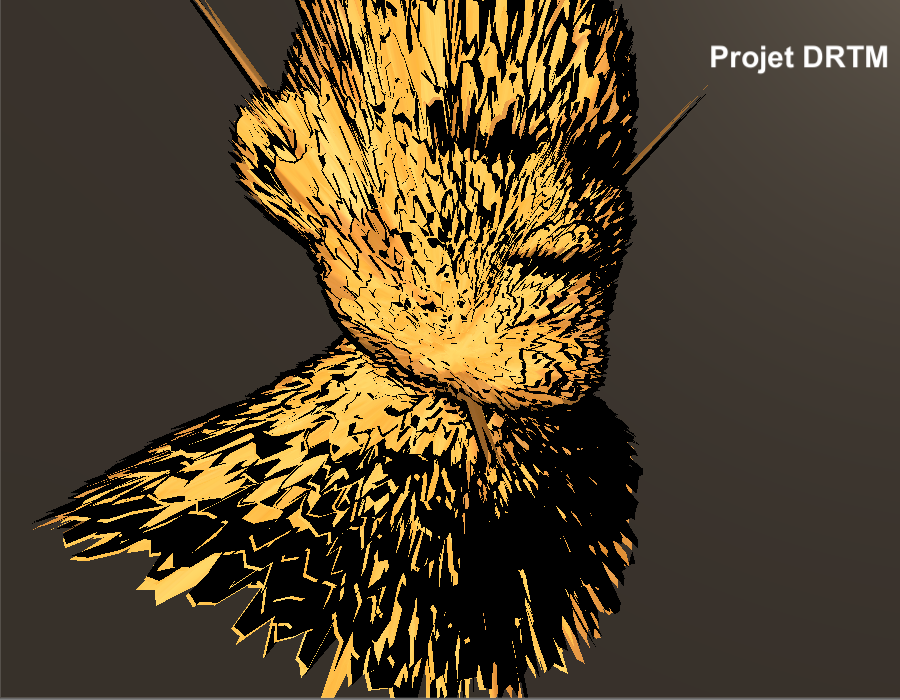
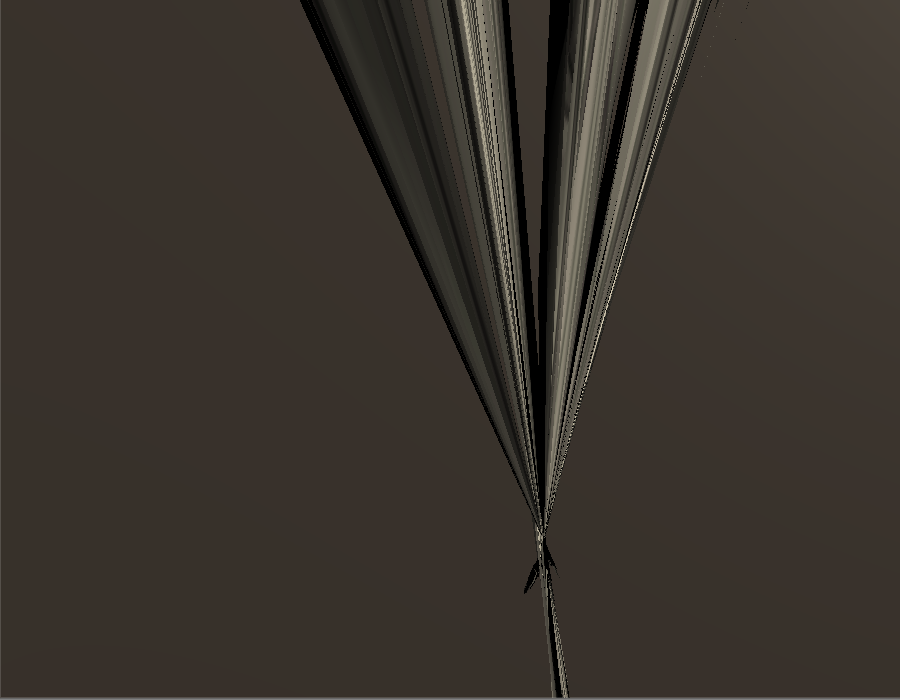
Update Deformation

diff --git a/DRTM project/Assets/src/Deformations/Deformation3D/AgrandissementLisse.cs b/DRTM project/Assets/src/Deformations/Deformation3D/AgrandissementLisse.cs
@@ -2,7 +2,9 @@
 using System.Collections.Generic;
 using UnityEngine;
 
-public class Eclats : DeformationAbstract{
+public class AgrandissementLisse : DeformationAbstract{
+	private static int i;
+
 	override public void deformer(){
 		GameObject go = GameObject.Find ("modele");
 		MeshFilter[] childs = go.GetComponentsInChildren<MeshFilter>(false);
@@ -14,28 +16,30 @@ public class Eclats : DeformationAbstract{
 			Mesh mesh = mf.mesh;
 			newVertices.AddRange( mesh.vertices );
 			for(int i = 0; i<newVertices.Count; i++){
-				float marge = 0.015f;
+				float marge = 0.055f;
 				if(estAProximité(marge, vRef,newVertices[i])){
-					newVertices [i] = calculerVecteur(vRef,marge,2.2f,newVertices[i]);
+					newVertices [i] = calculerVecteur(vRef,marge,1.4f,newVertices[i]);
 				}
 			}
 			mesh.vertices = newVertices.ToArray();
 			newVertices = new List<Vector3>();
 		}
 	}
-
+	// 1.4*((0.055-0.044)/0.055)
 	static Vector3 calculerVecteur(Vector3 center, float rayon, float hauteurEnSonCentre, Vector3 vecteurCible){
 		float distanceDuCentre = Vector3.Distance (center, vecteurCible);
-		float hauteur = hauteurEnSonCentre*(distanceDuCentre/rayon); 
+		float hauteur = 1+hauteurEnSonCentre*((rayon-distanceDuCentre)/rayon); 
+
+		i++;
+		if (i%2000==0) {
+			Debug.Log (distanceDuCentre);
+			i = 0;
+		}
 		return vecteurCible * hauteur;
 	}
 	static bool estAProximité(float marge, Vector3 v1, Vector3 v2){
-		if(v1.x - v2.x < marge && v1.x - v2.x > -marge){
-			if(v1.y - v2.y < marge && v1.y - v2.y > -marge){
-				if(v1.z - v2.z < marge && v1.z - v2.z > -marge){
-					return true;
-				}
-			}
+		if(Vector3.Distance (v1, v2) < marge){
+			return true;
 		}
 		return false;
 	}

diff --git a/DRTM project/Assets/src/Deformations/Deformation3D/Lames.cs b/DRTM project/Assets/src/Deformations/Deformation3D/Lames.cs
@@ -6,8 +6,8 @@ public class Lames : DeformationAbstract{
 	override public void deformer(){
 		GameObject go = GameObject.Find ("modele");
 		MeshFilter[] childs = go.GetComponentsInChildren<MeshFilter>(false);
-		MeshFilter child = childs[Mathf.RoundToInt (Random.value * childs.Length)];
-		Vector3 vRef = child.mesh.vertices[Mathf.RoundToInt(Random.value*child.mesh.vertices.Length)];
+		MeshFilter child = childs[Mathf.RoundToInt (Random.value * (childs.Length-1))];
+		Vector3 vRef = child.mesh.vertices[Mathf.RoundToInt(Random.value*child.mesh.vertices.Length-1)];
 		foreach (MeshFilter mf in childs) {
 			Mesh mesh = mf.mesh;
 			newVertices.AddRange( mesh.vertices );

diff --git a/DRTM project/Assets/src/Deformations/Deformation3D/AgrandissementMorceau.cs b/DRTM project/Assets/src/Deformations/Deformation3D/AgrandissementMorceau.cs
@@ -6,8 +6,8 @@ public class AgrandissementMorceau : DeformationAbstract{
 	override public void deformer(){
 		GameObject go = GameObject.Find ("modele");
 		MeshFilter[] childs = go.GetComponentsInChildren<MeshFilter>(false);
-		MeshFilter child = childs[Mathf.RoundToInt (Random.value * childs.Length)];
-		Vector3 vRef = child.mesh.vertices[Mathf.RoundToInt(Random.value*child.mesh.vertices.Length)];
+		MeshFilter child = childs[Mathf.RoundToInt (Random.value * (childs.Length-1))];
+		Vector3 vRef = child.mesh.vertices[Mathf.RoundToInt(Random.value*child.mesh.vertices.Length-1)];
 
 		foreach (MeshFilter mf in childs) {
 			Mesh mesh = mf.mesh;

diff --git a/DRTM project/Assets/src/ChangementTexture/BibliothequeDeformation/BibliothequeDeformation.cs b/DRTM project/Assets/src/ChangementTexture/BibliothequeDeformation/BibliothequeDeformation.cs
@@ -93,6 +93,15 @@ public class BibliothequeDeformation : MonoBehaviour {
 						this.gameObject.GetComponent<Eclats> ().deformer ();
 					}
 					break;
+				case "grandissementLisse":
+					
+					try{
+						this.gameObject.GetComponent<AgrandissementLisse> ().deformer ();
+					}catch(System.NullReferenceException){
+						this.gameObject.AddComponent(typeof(AgrandissementLisse));
+						this.gameObject.GetComponent<AgrandissementLisse> ().deformer ();
+					}
+					break;
 				case "Lame":
 					try{
 						this.gameObject.GetComponent<Lames> ().deformer ();

diff --git a/DRTM project/Assets/src/FileLoader/ChargementModels.cs b/DRTM project/Assets/src/FileLoader/ChargementModels.cs
@@ -50,6 +50,9 @@ public class ChargementModels : MonoBehaviour {
 			clone.transform.position = new Vector3 (215f, -2019f, 342f);
 			clone.transform.Rotate (new Vector3 (0f, 180f, 0f));
 			clone.transform.localScale = new Vector3 (1300f, 1300f, 1300f);
+			Destroy (GameObject.Find ("Nedra"));
+
+
 		}
 
 		else if (modele == "Assets/Resources/head1Free_FBX.fbx") {
